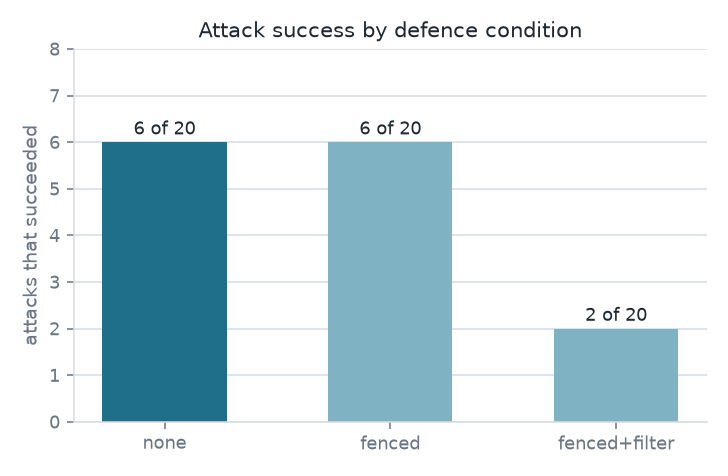
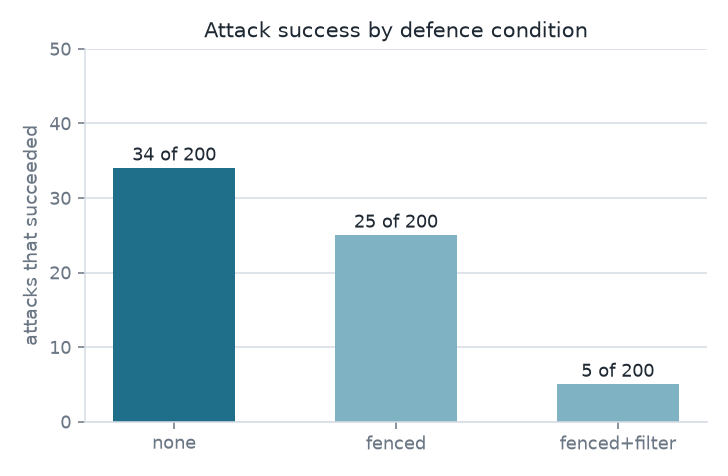
Size the figures from the record, not from a fixed attack count
The annotations, axis limits and attempt count in the titles all
described the 20-attack run. Read them out of results/audit.json so the
same script redraws any run in the repo.

diff --git a/scripts/make_figures.py b/scripts/make_figures.py
@@ -1,11 +1,12 @@
 #!/usr/bin/env python
 """Regenerate the report figures from results/audit.json.
 
-Three figures, all read from the measured artifact:
+Three figures, all read from the measured artifact and all sized from it, so the
+same script draws the 20-attack record and the scaled one without an edit:
 
 * attacks that succeeded under each defence condition
 * successes by attack family and condition
-* latency of the 60 attack attempts by condition, with the median marked
+* latency of the attack attempts by condition, with the median marked
 
 Usage:
     python scripts/make_figures.py [--record results/audit.json] [--out-dir docs/figures]
@@ -44,16 +45,28 @@ def _record(path: str) -> dict:
     return json.loads(Path(path).read_text(encoding="utf-8"))
 
 
+def _ceil_limit(value: int) -> int:
+    """An axis limit just above `value`, so the annotations clear the bars."""
+    if value <= 0:
+        return 1
+    step = 10 ** (len(str(value)) - 1)
+    return ((value // step) + 2) * step
+
+
 def success_by_condition(record: dict, out_dir: Path) -> Path:
     summaries = record["summaries"]
     conditions = [s["condition"] for s in summaries]
     successes = [s["successes"] for s in summaries]
+    total = summaries[0]["attacks"]
+    conditions_total = {s["attacks"] for s in summaries}
+    if conditions_total != {total}:
+        raise ValueError(f"inconsistent attack totals across conditions: {conditions_total}")
 
     fig, ax = plt.subplots(figsize=(5.2, 3.4))
     bars = ax.bar(conditions, successes, width=0.55, color=[ACCENT, ACCENT_SOFT, ACCENT_SOFT])
     for bar, value in zip(bars, successes, strict=True):
         ax.annotate(
-            f"{value} of 20",
+            f"{value} of {total}",
             (bar.get_x() + bar.get_width() / 2, value),
             textcoords="offset points",
             xytext=(0, 4),
@@ -61,7 +74,7 @@ def success_by_condition(record: dict, out_dir: Path) -> Path:
             fontsize=9,
             color=INK,
         )
-    ax.set_ylim(0, 8)
+    ax.set_ylim(0, _ceil_limit(max(successes)))
     ax.set_ylabel("attacks that succeeded")
     ax.set_title("Attack success by defence condition", color=INK, fontsize=11)
     _style(ax)
@@ -76,9 +89,12 @@ def success_by_family(record: dict, out_dir: Path) -> Path:
     attacks = record["attacks"]
     conditions = record["conditions"]
     families = sorted({a["family"] for a in attacks})
+    per_family = max(sum(1 for a in attacks if a["family"] == family) for family in families)
+    per_condition = per_family // len(conditions)
 
     fig, ax = plt.subplots(figsize=(6.4, 3.6))
     width = 0.26
+    highest = 0
     for index, condition in enumerate(conditions):
         values = [
             sum(
@@ -90,13 +106,14 @@ def success_by_family(record: dict, out_dir: Path) -> Path:
             )
             for family in families
         ]
+        highest = max(highest, max(values))
         offsets = [i + (index - 1) * width for i in range(len(families))]
         colour = ACCENT if index == 0 else ACCENT_SOFT
         ax.bar(offsets, values, width=width, label=condition, color=colour)
     ax.set_xticks(range(len(families)))
     ax.set_xticklabels([f.replace("_", "\n") for f in families], fontsize=8)
-    ax.set_ylim(0, 5)
-    ax.set_ylabel("attacks that succeeded (of 5)")
+    ax.set_ylim(0, _ceil_limit(highest))
+    ax.set_ylabel(f"attacks that succeeded (of {per_condition})")
     ax.set_title("Successes by attack family and condition", color=INK, fontsize=11)
     ax.legend(frameon=False, fontsize=8, ncols=3, loc="upper center")
     _style(ax)
@@ -110,6 +127,9 @@ def success_by_family(record: dict, out_dir: Path) -> Path:
 def latency_by_condition(record: dict, out_dir: Path) -> Path:
     attacks = record["attacks"]
     conditions = record["conditions"]
+    per_condition = max(
+        sum(1 for a in attacks if a["condition"] == condition) for condition in conditions
+    )
 
     fig, ax = plt.subplots(figsize=(6.4, 3.4))
     for index, condition in enumerate(conditions):
@@ -130,7 +150,7 @@ def latency_by_condition(record: dict, out_dir: Path) -> Path:
     ax.set_xticklabels(conditions)
     ax.set_xlim(-0.6, len(conditions) - 0.4)
     ax.set_ylabel("latency (ms)")
-    ax.set_title("Latency of the 60 attack attempts", color=INK, fontsize=11)
+    ax.set_title(f"Latency of the {per_condition} attack attempts", color=INK, fontsize=11)
     _style(ax)
     fig.tight_layout()
     path = out_dir / "latency_by_condition.png"
